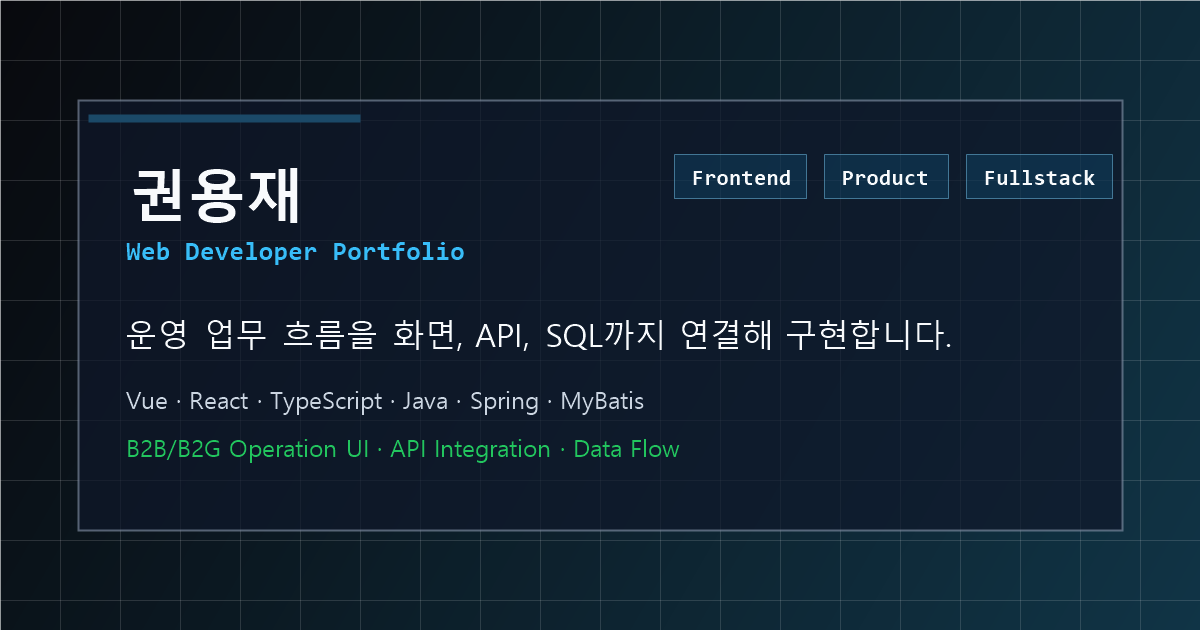
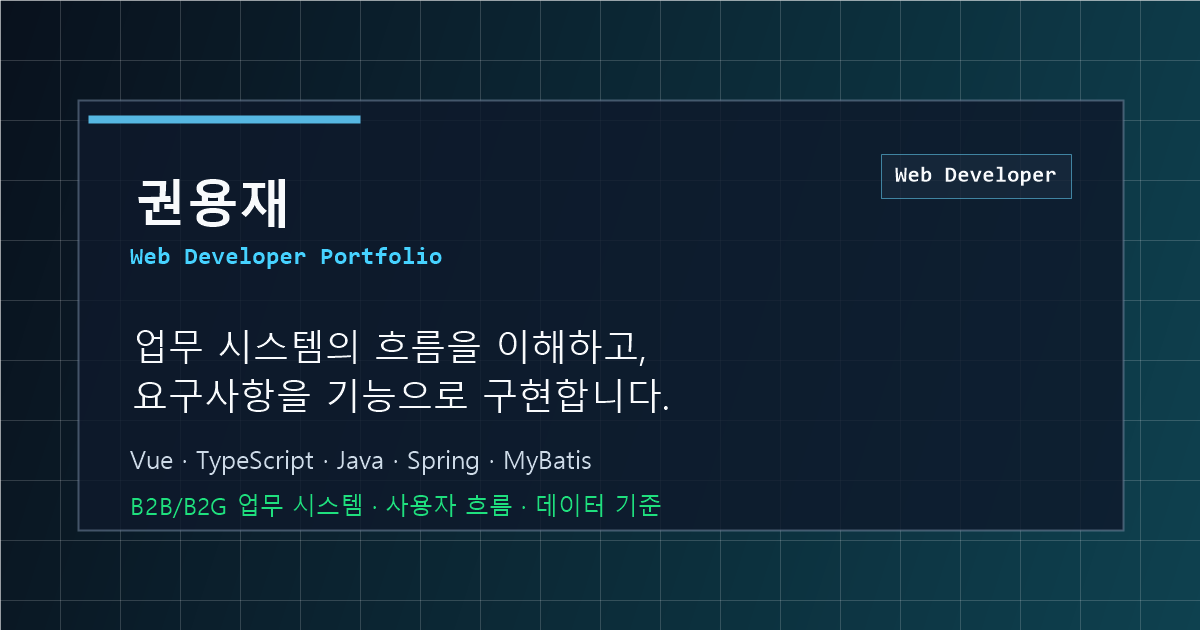
style: update social preview metadata

diff --git a/index.html b/index.html
@@ -39,12 +39,12 @@
     </script>
     <meta
       name="description"
-      content="권용재 프론트엔드 개발자 포트폴리오. 운영 시스템, 관리자 도구, 웹·모바일 업무 화면, API·SQL·외부 연동 경험을 프론트엔드 중심으로 정리했습니다."
+      content="권용재 Web Developer 포트폴리오. 업무 시스템의 흐름을 이해하고, 요구사항을 기능으로 구현하며 기존 처리와 어긋나지 않게 개선해 온 경험을 정리했습니다."
     />
     <meta property="og:title" content="권용재 | Web Developer Portfolio" />
     <meta
       property="og:description"
-      content="화면, API, SQL, 외부 연동을 함께 보며 운영 업무 흐름을 구현해온 웹 개발자 포트폴리오입니다."
+      content="업무 시스템의 흐름을 이해하고, 요구사항을 기능으로 구현해 온 웹 개발자 포트폴리오입니다."
     />
     <meta property="og:type" content="website" />
     <meta property="og:url" content="https://portfolio-six-inky-14.vercel.app/" />
@@ -54,7 +54,7 @@
     <meta property="og:locale" content="ko_KR" />
     <meta name="twitter:card" content="summary" />
     <meta name="twitter:title" content="권용재 | Web Developer Portfolio" />
-    <meta name="twitter:description" content="화면, API, SQL, 외부 연동을 함께 보며 운영 업무 흐름을 구현해온 웹 개발자 포트폴리오입니다." />
+    <meta name="twitter:description" content="업무 시스템의 흐름을 이해하고, 요구사항을 기능으로 구현해 온 웹 개발자 포트폴리오입니다." />
     <meta name="twitter:image" content="https://portfolio-six-inky-14.vercel.app/og-image.png" />
     <title>권용재 | Web Developer Portfolio</title>
   </head>
